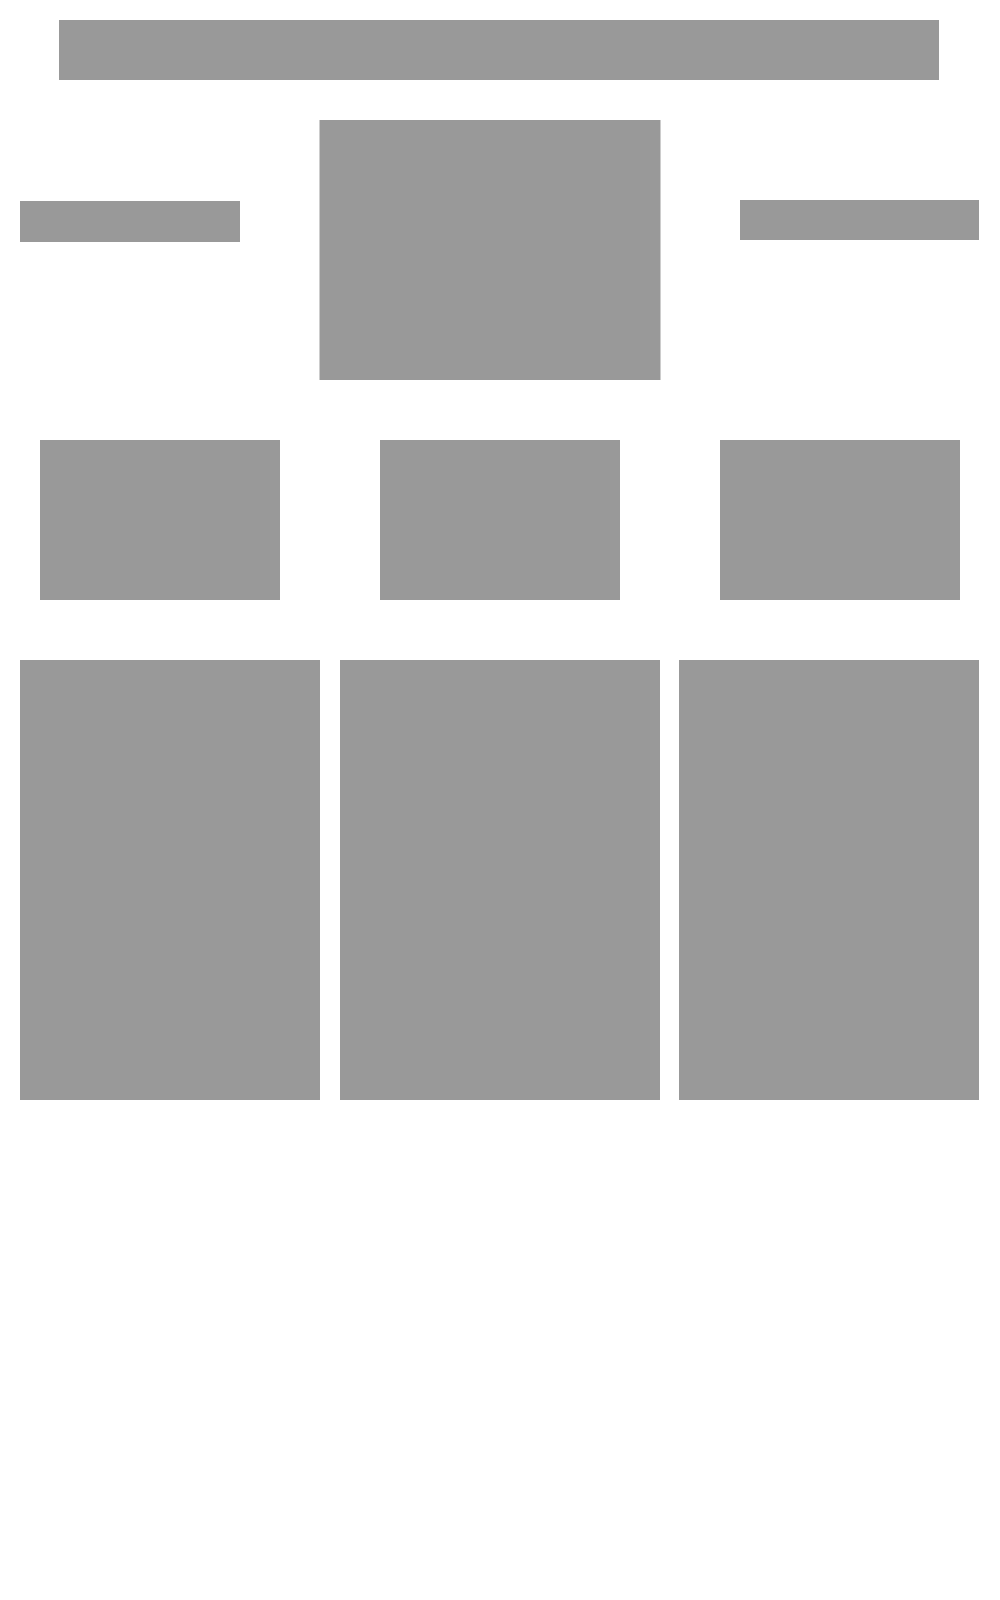
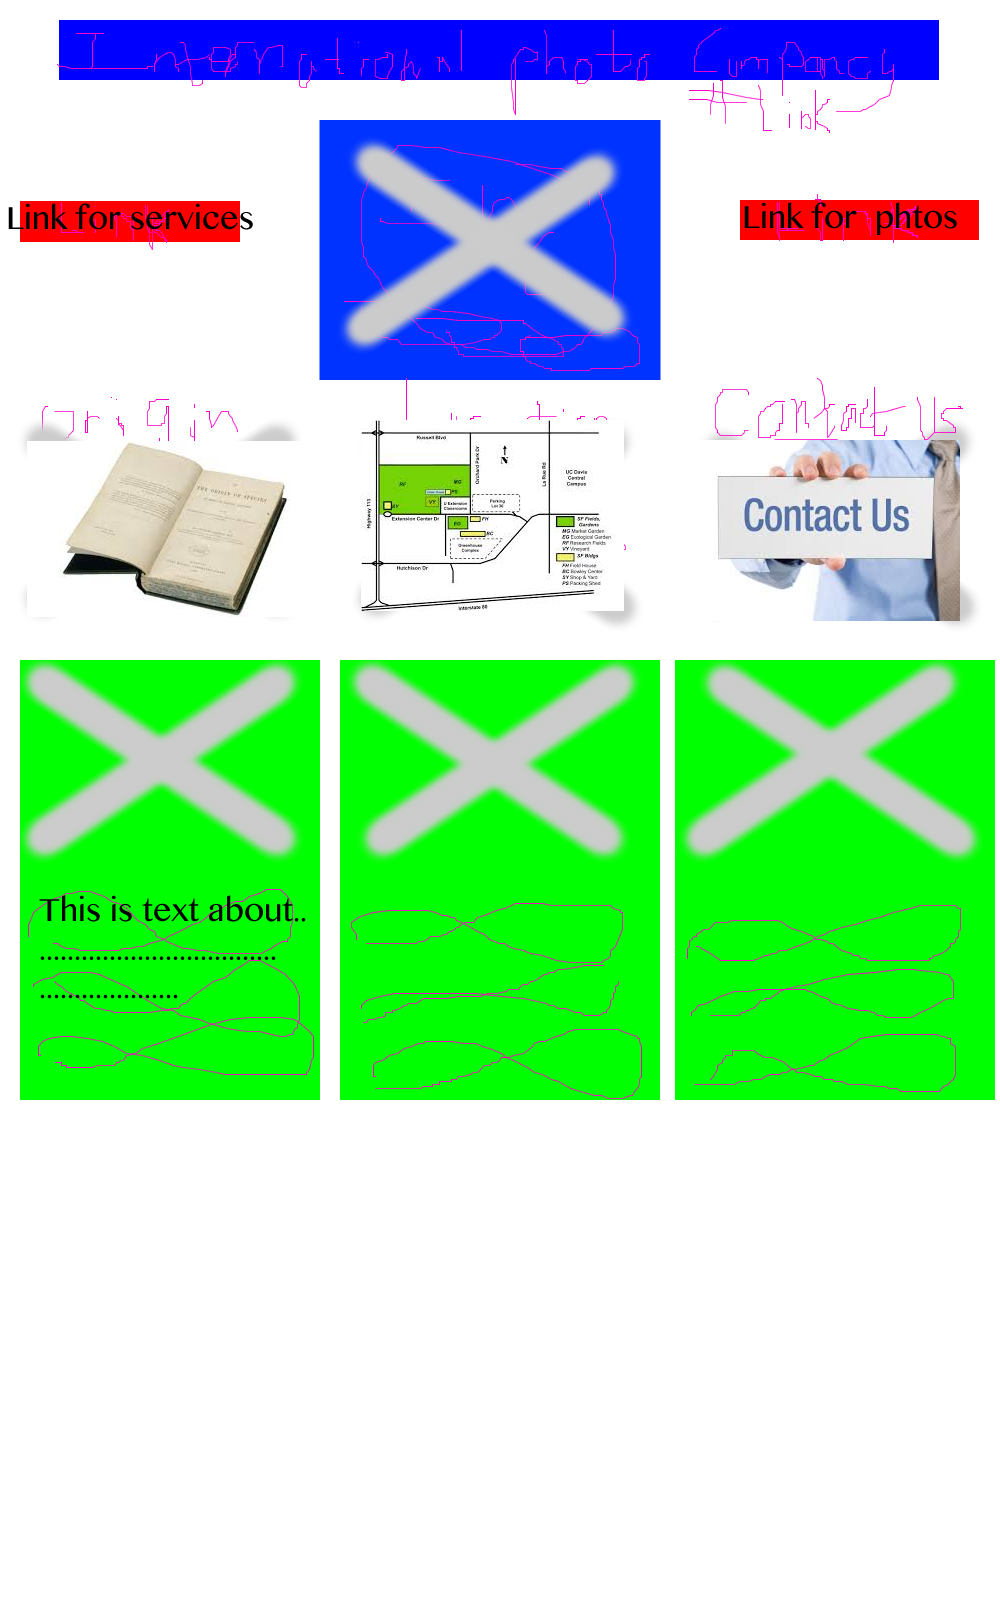
i added tables; etc etc etc

diff --git a/index.html b/index.html
@@ -49,7 +49,28 @@ h4> Team Members </h4>
 <p> What we want to solve for Helen's granddad is too ideally help him expand his business. His photography business goes up to many generations and heritage, thus it is only well-known with old peopkle. By making a website on the internet that the recent and young generation are constantly using, we can help him expand his business. A google search relating to his services that could lead to his website could increase his business as a whole because everytime somebody views his website, the brand is getting well-known. </p>
 <h3> Progress Check <h3>
   <div style="width: 480px; height: 360px; margin: 10px; position: relative;"><iframe allowfullscreen frameborder="0" style="width:480px; height:360px" src="https://www.lucidchart.com/documents/embeddedchart/e91fad1b-56f3-469b-8256-38161e1b6405" id="D~9YujUmSfXs"></iframe><a href="https://www.lucidchart.com/pages/examples/mind_mapping_software" style="margin: 0; padding: 0; border: none; display: inline-block; position: absolute; bottom: 5px; left: 5px;"><img alt="mind mapping software"title="Lucidchart online diagrams"style="width: 100px; height: 30px; margin: 0; padding: 0; border-image: none; border: none; display: block"src="https://www.lucidchart.com/img/diagrams-lucidchart.png"/></a></div>
-
+  trong> Progress Check for Objectives </strong> </h2>
+  <table border="1" bordercolor="#888" cellspacing="0">
+    <tbody>
+      <tr>
+        <td width="460">Create a website for Helen's dad; that can solve his problems </td>
+        <td width="152"> </td>
+      </tr>
+      <tr>
+        <td>Use trello to plan and work on problems</td>
+        <td> </td>
+      </tr>
+      <tr>
+        <td>Use lucidchart to make a flowchart to breakdown website essentials</td>
+        <td> </td>
+      </tr>
+      <tr>
+        <td>Use GitHub group planning website to record progressment</td>
+        <td> <br></td>
+      </tr>
+    </tbody>
+  </table>
+</div>
 <h3> Splitting the Work <h3>
 <ul>
   <li> Helen is working on contacting her grandfather, getting the photos, and scheudling an appointment for us to visit his photography booth. </li>
@@ -58,6 +79,16 @@ h4> Team Members </h4>
   <li> I am working on thinking why and how will people look for Helen's grandfather website. How does it serve a purpose for consumer (people who want their photos) and producers (Helen's grand dad) </li>
 </ul>'
 <h3> Wireframing Work <h3>
-<p> Today I learnt some amazing features on firework. I learnt how to wireframe and such things to evenly distrubute my boxes. I also learnt that
+<p> Today I learnt some amazing features on firework. I learnt how to wireframe and skills that go along with it to evenly distrubute my boxes. </p>
+<p> Here is my wireframe </p>
+
+
+
+
+
+
+
+
+
 </body>
 </html>
